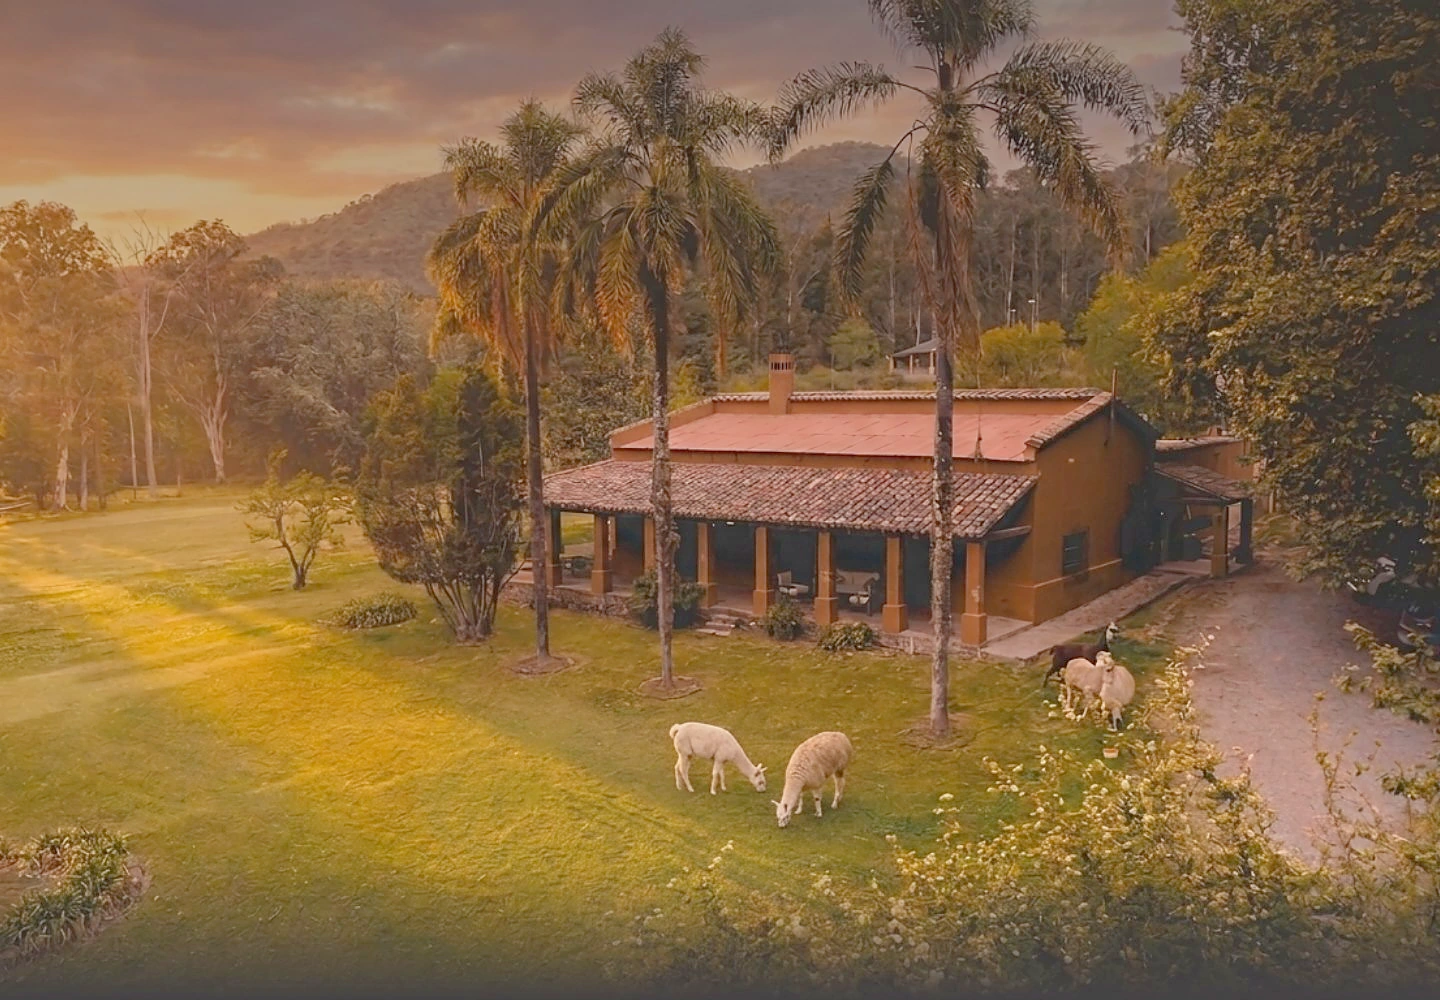
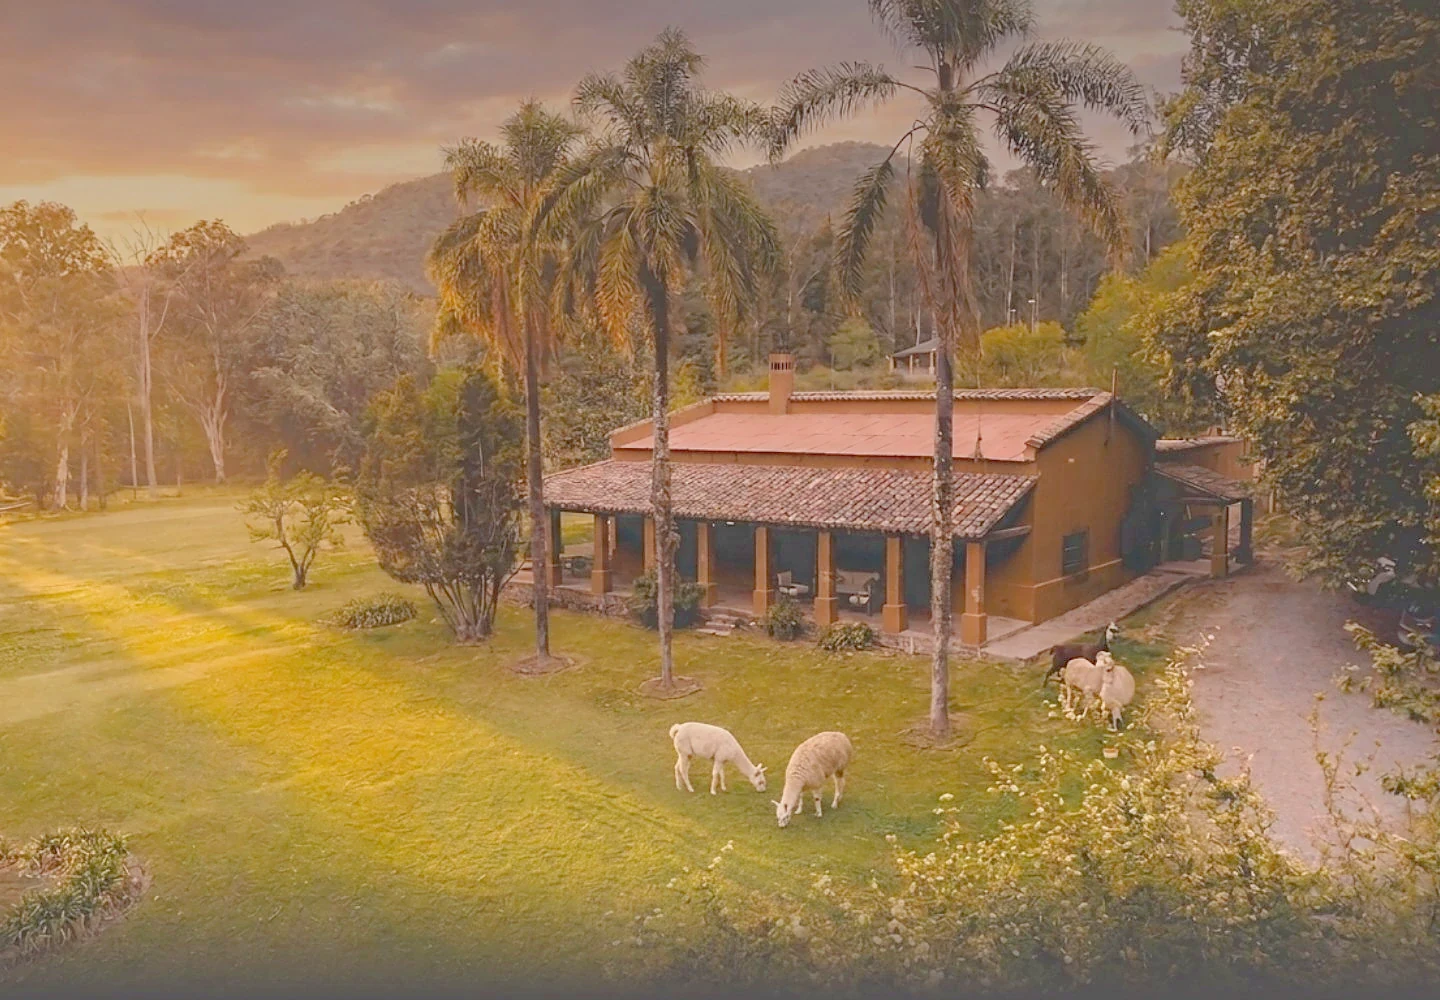
Volver desde una ficha ahora sí baja a la sección, y tres arreglos de La Sala
1) El menú de la ficha (Experiencias, Mapa, Quiénes somos, Contacto) llegaba a la
portada pero aterrizaba arriba de todo. La bajada insistía 2,5 s y se perdía: en
los primeros segundos la página vuelve sola al principio mientras se acomodan
las tarjetas y las fotos. Ahora insiste hasta LLEGAR —tres lecturas quietas, con
8 s de techo— y usa behavior:"instant", porque con el scroll suave del CSS cada
llamada reiniciaba la animación. Frena con la rueda, con touchmove o con el
teclado: si la persona ya se está moviendo, manda ella (antes frenaba con
touchstart, que en el celular se dispara con sólo apoyar el dedo).

2) La foto del piletón pasa al quinto lugar de la galería de La Sala.

3) La tapa de La Sala estaba muy oscura detrás del velo de las tarjetas Selecta:
se levantó la foto (gamma 0,80 y un toque de color), sin tocar el CSS.

4) La franja "Jujuy a tu medida" quedaba en castellano en los otros tres idiomas:
se sumaron sus tres textos al diccionario.

Changed region(s): [[0.8438, 0.372, 0.875, 0.403], [0.4375, 0.217, 0.4688, 0.248]]

diff --git a/wwwroot/web/index.html b/wwwroot/web/index.html
@@ -1837,23 +1837,45 @@ if (ANCLAS.indexOf(anclaInicial) >= 0) {
   var irAlAncla = function () {
     var s = document.getElementById(anclaInicial);
     if (!s) return;
-    var hasta = Date.now() + 2500, corte = false;
-    function frenar() { corte = true; }
-    window.addEventListener("wheel", frenar, { once: true, passive: true });
-    window.addEventListener("touchstart", frenar, { once: true, passive: true });
+    // Hasta el 11/11/2026 esto insistia 2,5 s y se daba por hecho que alcanzaba.
+    // No alcanzaba: viniendo de la ficha de una excursion se aterrizaba SIEMPRE
+    // arriba de todo. Durante los primeros segundos la pagina vuelve sola al
+    // principio mientras se terminan de acomodar las tarjetas y las fotos, asi
+    // que la bajada se perdia dentro de esa ventana y, cuando se acababa el
+    // reloj, quedaba en cero. Ahora no se corta por tiempo sino CUANDO LLEGA:
+    // insiste hasta que la posicion se queda quieta tres veces seguidas, con
+    // ocho segundos de techo.
+    var hasta = Date.now() + 8000, corte = false, quietas = 0;
+    function limpiar() {
+      window.removeEventListener("wheel", frenar);
+      window.removeEventListener("touchmove", frenar);
+      window.removeEventListener("keydown", frenar);
+    }
+    function frenar() { corte = true; limpiar(); }
+    // "wheel" y "touchmove", no "touchstart": en el celular el dedo toca la
+    // pantalla apenas carga, y con touchstart la bajada se cancelaba sola.
+    window.addEventListener("wheel", frenar, { passive: true });
+    window.addEventListener("touchmove", frenar, { passive: true });
+    window.addEventListener("keydown", frenar);
     (function ir() {
       if (corte) return;
-      // El menú de arriba es fijo y tapa lo primero de la sección: hay que dejarle
-      // su altura de aire, si no el título queda cortado por la mitad.
+      // El menu de arriba es fijo y tapa lo primero de la seccion: hay que
+      // dejarle su altura de aire, si no el titulo queda cortado por la mitad.
       var menu = document.querySelector("header");
       var aire = (menu ? menu.getBoundingClientRect().height : 0) + 14;
       var y = s.getBoundingClientRect().top + window.scrollY - aire;
       if (y < 0) y = 0;
-      if (Math.abs(window.scrollY - y) > 4) window.scrollTo(0, y);
-      if (Date.now() < hasta) setTimeout(ir, 80);
+      if (Math.abs(window.scrollY - y) > 4) {
+        quietas = 0;
+        // "instant" a proposito: con el scroll suave del CSS, volver a llamar
+        // cada 80 ms reinicia la animacion y la pagina no termina de llegar.
+        try { window.scrollTo({ top: y, behavior: "instant" }); }
+        catch (e) { window.scrollTo(0, y); }
+      } else if (++quietas >= 3) { limpiar(); return; }
+      if (Date.now() < hasta) setTimeout(ir, 80); else limpiar();
     })();
   };
-  // Si la página ya terminó de cargar, el evento "load" no vuelve a dispararse.
+  // Si la pagina ya termino de cargar, el evento "load" no vuelve a dispararse.
   if (document.readyState === "complete") irAlAncla();
   else window.addEventListener("load", irAlAncla);
 }

diff --git a/wwwroot/web/idiomas-textos.js b/wwwroot/web/idiomas-textos.js
@@ -39,6 +39,10 @@ en: {
   },
 
   textos: {
+    /* -- "Jujuy a tu medida", la franja que va despues de las experiencias -- */
+    "¿Todavía no sabés qué elegir?": "Not sure what to choose yet?",
+    "Contanos cuántos días tenés y te armamos el viaje entero": "Tell us how many days you have and we'll plan the whole trip",
+    "Ver cómo lo armamos →": "See how we build it →",
     /* ── Conociendo la Quebrada · Inca Cueva Express · Especial La Sala ──
        Los nombres propios quedan como están: Purmamarca, Salinas Grandes,
        Hornocal, Inca Cueva, el Oasis, La Ventana, La Sala, Lozano. El título de
@@ -697,6 +701,10 @@ fr: {
   },
 
   textos: {
+    /* -- "Jujuy a tu medida", la franja que va despues de las experiencias -- */
+    "¿Todavía no sabés qué elegir?": "Vous ne savez pas encore quoi choisir ?",
+    "Contanos cuántos días tenés y te armamos el viaje entero": "Dites-nous combien de jours vous avez et nous organisons tout le voyage",
+    "Ver cómo lo armamos →": "Voir comment nous l'organisons →",
     /* ── Conociendo la Quebrada · Inca Cueva Express · Especial La Sala ──
        Los nombres propios quedan como están: Purmamarca, Salinas Grandes,
        Hornocal, Inca Cueva, el Oasis, La Ventana, La Sala, Lozano. El título de
@@ -1346,6 +1354,10 @@ pt: {
   },
 
   textos: {
+    /* -- "Jujuy a tu medida", la franja que va despues de las experiencias -- */
+    "¿Todavía no sabés qué elegir?": "Ainda não sabe o que escolher?",
+    "Contanos cuántos días tenés y te armamos el viaje entero": "Conte-nos quantos dias você tem e montamos a viagem inteira",
+    "Ver cómo lo armamos →": "Veja como montamos →",
     /* ── Conociendo la Quebrada · Inca Cueva Express · Especial La Sala ──
        Los nombres propios quedan como están: Purmamarca, Salinas Grandes,
        Hornocal, Inca Cueva, el Oasis, La Ventana, La Sala, Lozano. El título de

diff --git a/Program.cs b/Program.cs
@@ -1269,6 +1269,24 @@ using (var scope = app.Services.CreateScope())
         db.SaveChanges();
     }
 
+    // ---- La foto del piletón va quinta (pedido de Lautaro, 11/11/2026) ----
+    //
+    // Se había sumado al final de la galería. En el quinto lugar queda después de las
+    // cuatro de la casa y antes del parque, que es donde el que desliza todavía está
+    // mirando. Corre una sola vez: la condición pide que siga siendo la última.
+    var salaFotos = db.ExcursionesWeb.FirstOrDefault(x => x.Clave == "especial-la-sala"
+                        && x.Fotos.EndsWith("la-sala-pileton.webp"));
+    if (salaFotos != null)
+    {
+        var fotosSala = salaFotos.Fotos.Replace("\r", "")
+            .Split('\n', StringSplitOptions.RemoveEmptyEntries | StringSplitOptions.TrimEntries)
+            .ToList();
+        fotosSala.Remove("la-sala-pileton.webp");
+        fotosSala.Insert(Math.Min(4, fotosSala.Count), "la-sala-pileton.webp");
+        salaFotos.Fotos = string.Join("\n", fotosSala);
+        db.SaveChanges();
+    }
+
     // ---- El orden de la lista, de una vez ----
     //
     // Primer intento: se repartieron entre las cuatro Selecta los lugares que ya
